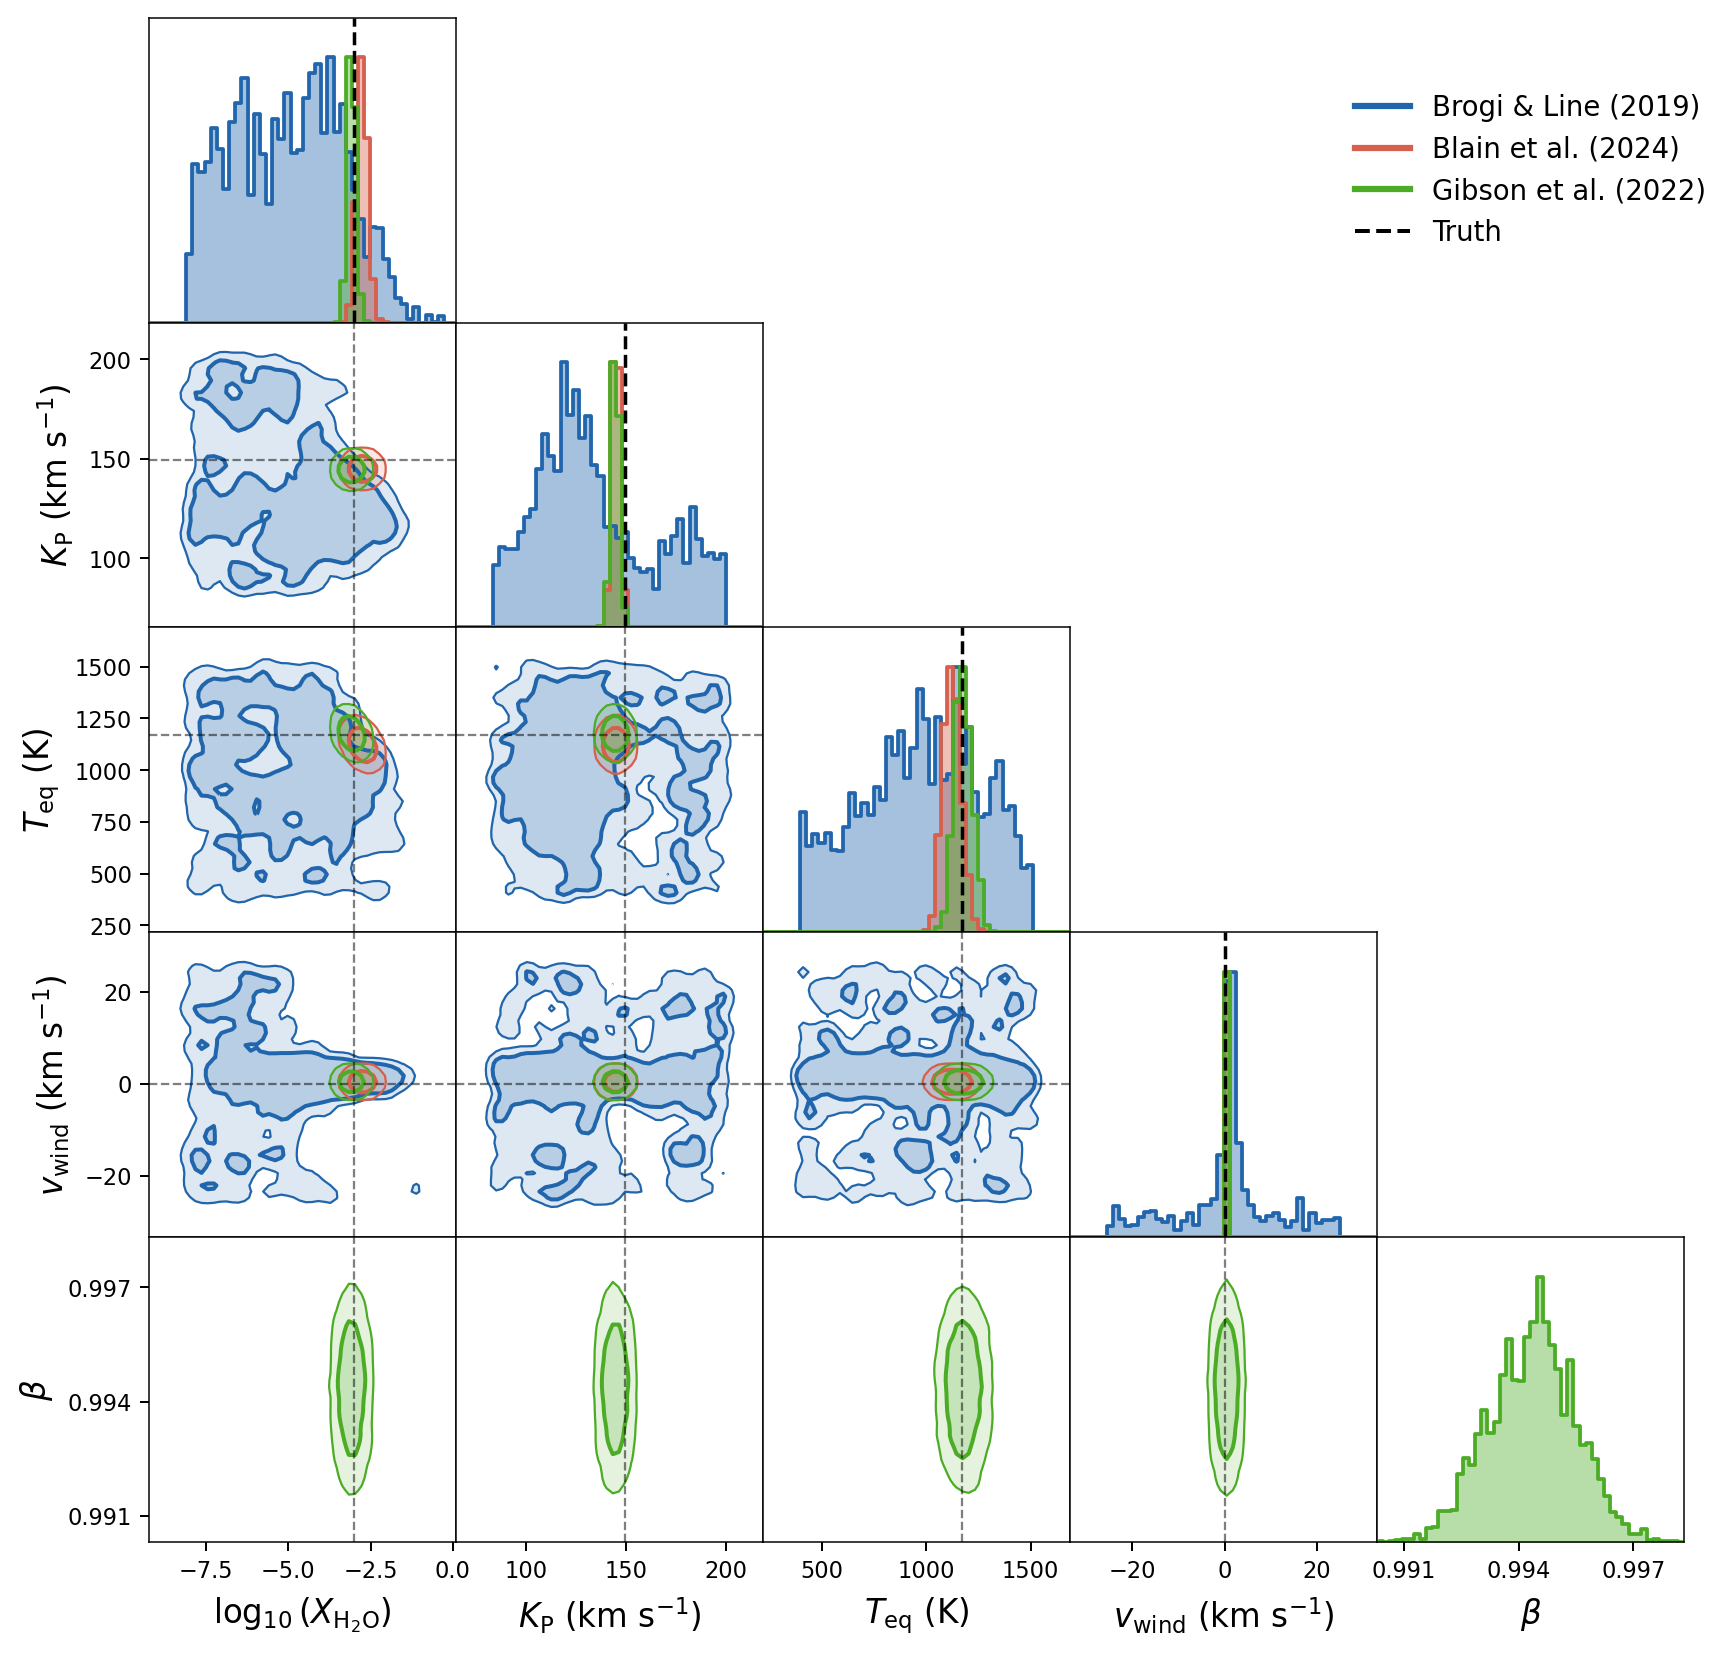
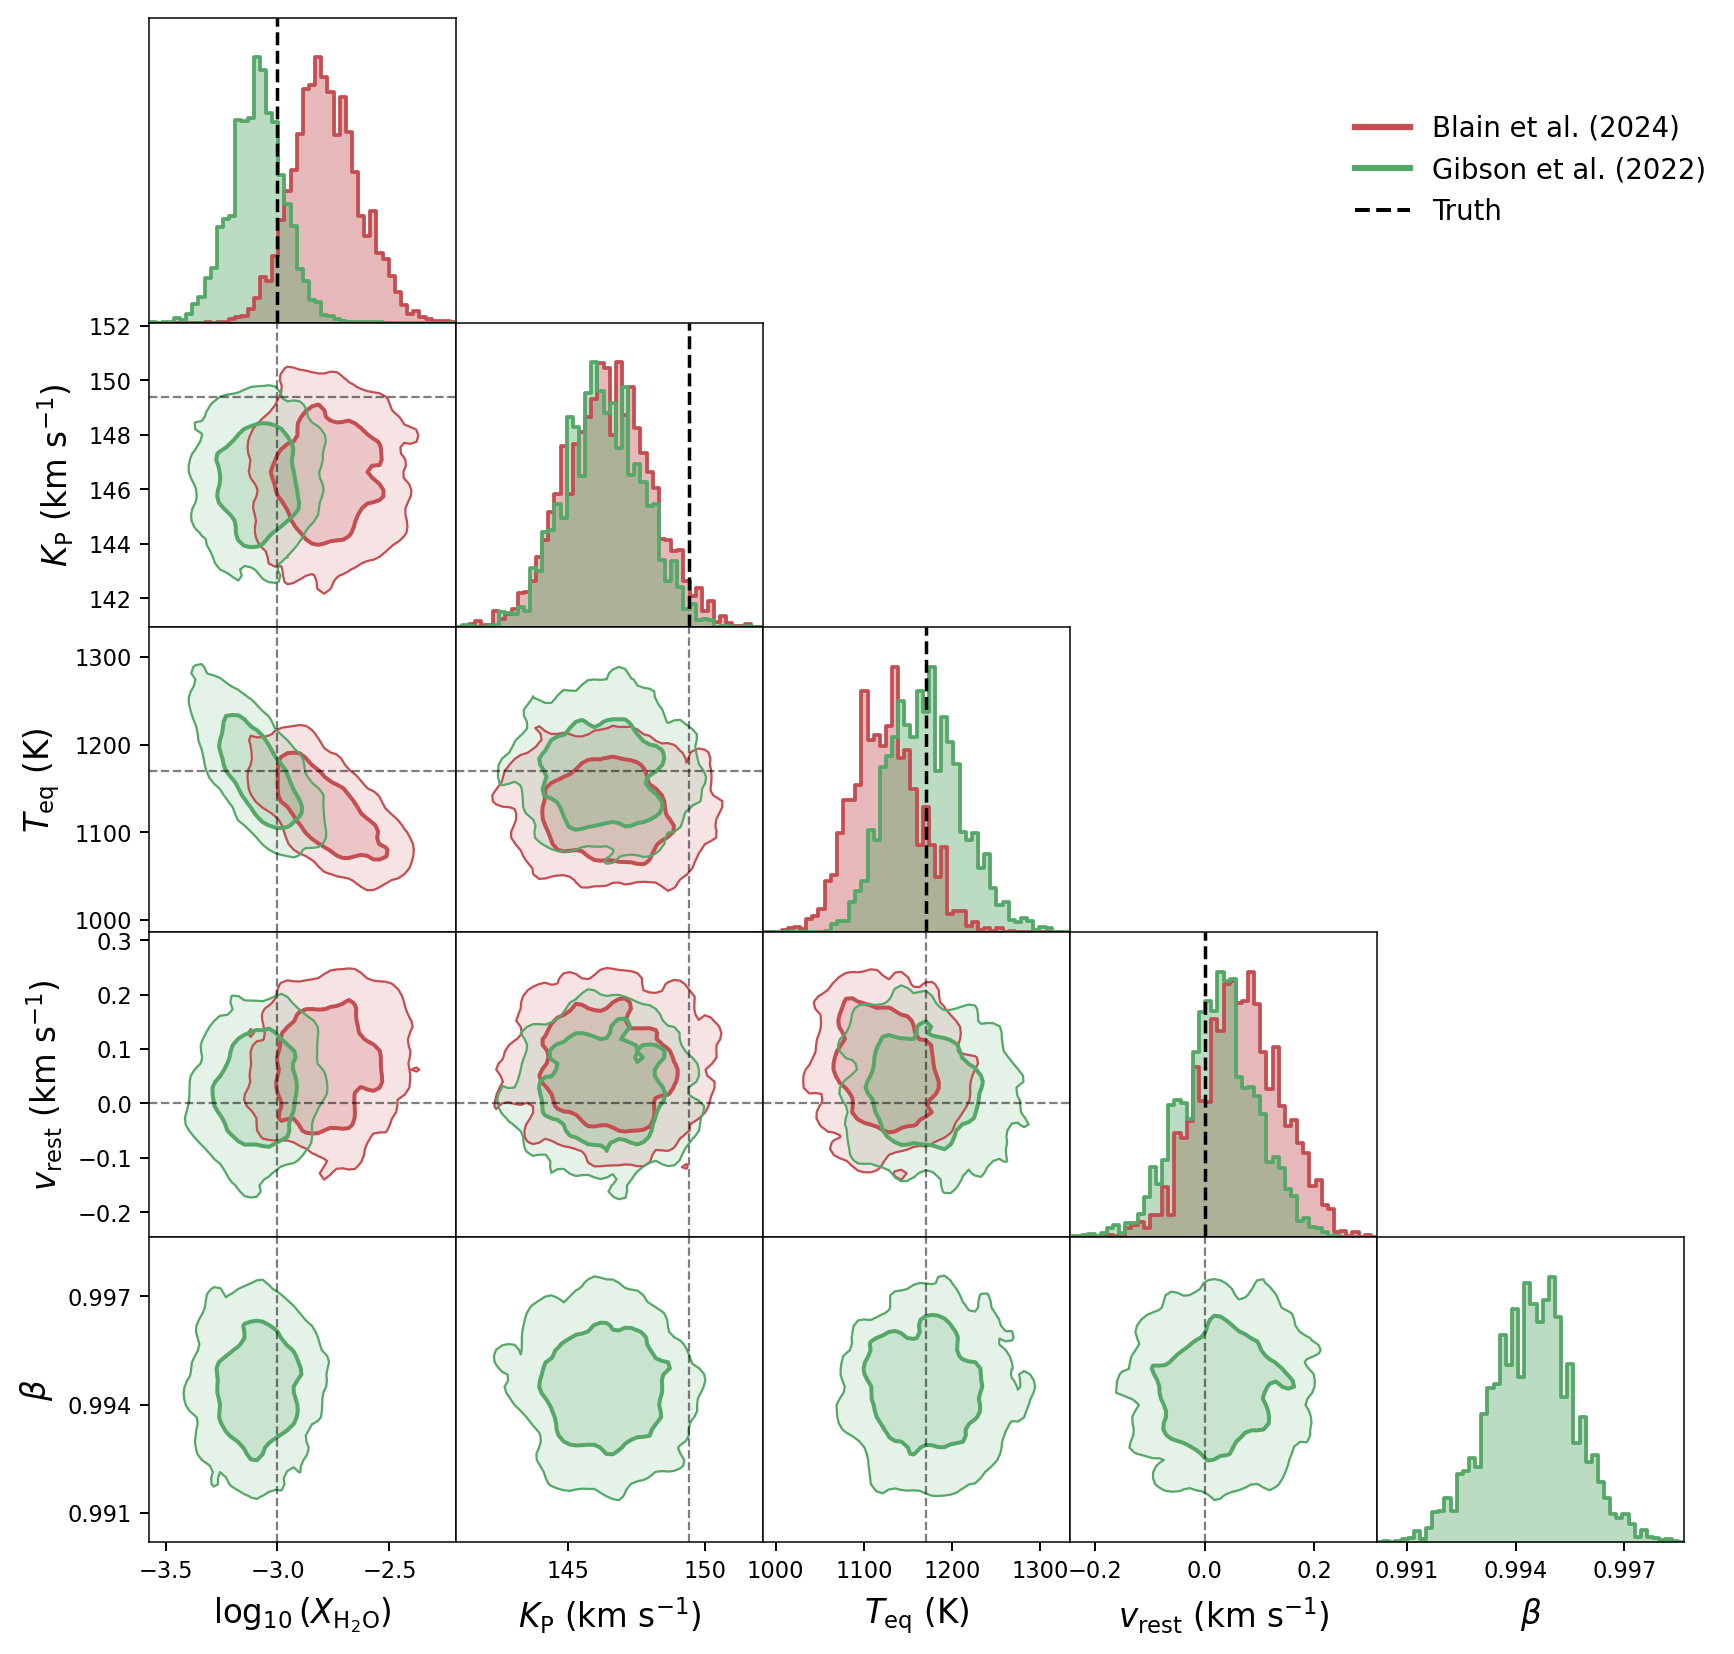
Tutorial 7 noisy bias test with Blain24 and Gibson22; rework likelihood-choice discussion

diff --git a/docs/tutorial.md b/docs/tutorial.md
@@ -848,16 +848,13 @@ Key optional arguments:
 
 ### Noisy retrieval with ANDES YJHK
 
-The noiseless case above demonstrates bias in the absence of noise. To verify that all three pipelines also recover truth under realistic noise, the same test can be run with a single ANDES YJHK order at J-band (order 35, 1310 to 1326 nm), where H₂O provides strong signal even in one order. The ETC SNR in this order is ≈1256 per resolution element per exposure. The ANDES SNR tables are given per resolution element; EXoPLORE converts them to a per-pixel SNR internally via SNR<sub>pixel</sub> = SNR<sub>resel</sub> / √m, where m = `pixels_per_resolution_element` (2.5 for ANDES), so the per-pixel SNR here is ≈800. Even at this single order the signal is strong enough to make the posteriors tight despite the added noise.
+The noiseless case above demonstrates bias in the absence of noise. To verify that Blain24 and Gibson22 also recover truth under realistic noise, the same test can be run with a single ANDES YJHK order at J-band (order 35, 1310 to 1326 nm), where H₂O provides strong signal even in one order. The ETC SNR in this order is ≈1256 per resolution element per exposure. The ANDES SNR tables are given per resolution element; EXoPLORE converts them to a per-pixel SNR internally via SNR<sub>pixel</sub> = SNR<sub>resel</sub> / √m, where m = `pixels_per_resolution_element` (2.5 for ANDES), so the per-pixel SNR here is ≈800. Even at this single order the signal is strong enough to make the posteriors tight despite the added noise.
 
 ```bash
-# BL19, noisy, ANDES YJHK, order 35
-python -u scripts/run_exoplore.py configs/hd189733b_andes_retrieval_bl19_noisy.json --run
-
 # Blain24, noisy, ANDES YJHK, order 35
 python -u scripts/run_exoplore.py configs/hd189733b_andes_retrieval_blain24_noisy.json --run
 
-# Gibson22, noisy, ANDES YJHK, order 35 (β free; β prior [0.9, 1.1] avoids divergence)
+# Gibson22, noisy, ANDES YJHK, order 35 (β free)
 python -u scripts/run_exoplore.py configs/hd189733b_andes_retrieval_gibson22_noisy.json --run
 ```
 
@@ -866,7 +863,7 @@ With realistic noise the Gibson22 β parameter is identifiable and no prior pinn
 :::{figure} figures/tutorial_retrieval_bias_corner_noisy.png
 :width: 90%
 :align: center
-Posterior probability distributions for the retrieved atmospheric parameters of HD 189733 b (ANDES YJHK, order 35, 1310 to 1326 nm, noisy simulation), obtained with Brogi & Line (2019; blue), Blain et al. (2024; red), and Gibson et al. (2022; green) using nested sampling with 200 live points. The posterior widths differ between formulations for this single noisy order: the Brogi & Line (2019) constraints are broader, while those of Blain et al. (2024) and Gibson et al. (2022) are tighter (Kp to ±2 km s<sup>-1</sup>, T<sub>eq</sub> to ±42 K, v<sub>rest</sub> to ±0.1 km s<sup>-1</sup>). All three formulations recover the truth values within 1 to 2σ, with no evidence of systematic pipeline bias; the difference in width reflects the heteroscedastic noise of a single order (see the text below) rather than a general ordering of the methods. The β parameter of Gibson et al. (2022) is identifiable on noisy data (β = 0.994 ± 0.001) and requires no prior pinning.
+Posterior probability distributions for the retrieved atmospheric parameters of HD 189733 b (ANDES YJHK, order 35, 1310 to 1326 nm, noisy simulation), obtained with Blain et al. (2024; red) and Gibson et al. (2022; green) using nested sampling with 200 live points. Both formulations recover the truth values within 1 to 2σ, with no evidence of systematic pipeline bias, and their posteriors are of comparable width since both weight each pixel by its known uncertainty. The recovered K<sub>P</sub> sits ~3 km s<sup>-1</sup> below the injected value for both methods (146.5 and 146.3 km s<sup>-1</sup> against 149.4), consistent between them; this reflects the particular noise realisation of this single order rather than a pipeline bias. The β parameter of Gibson et al. (2022) is free and identifiable on noisy data (β = 0.994 ± 0.001), requiring no prior pinning; its truth line is omitted as it is a noise-model parameter with no injected value. Black dashed lines mark the injected truth values.
 :::
 
 The overlay corner plot is generated with:
@@ -874,26 +871,27 @@ The overlay corner plot is generated with:
 ```bash
 python scripts/plot_corner_overlay.py \\
   --output-root /path/to/EXoPLORE_clean_run/HD189733b/ANDES_YJHK/transit \\
-  --runs  BL19_withsignal_1nights_SNR_comb1_simdata_noisy_stdnoisex1 \\
-          Blain24_withsignal_1nights_SNR_comb1_simdata_noisy_stdnoisex1 \\
-          Gibson22_withsignal_1nights_SNR_comb1_simdata_noisy_stdnoisex1 \\
-  --labels "Brogi & Line (2019)" "Blain et al. (2024)" "Gibson et al. (2022)" \\
+  --runs  Blain24_withsignal_1nights_SNR_comb1_simdata_noisy_stdnoisex1 \\
+          Gibson22_withsignal_N4_1nights_SNR_comb1_simdata_noisy_stdnoisex1 \\
+  --labels "Blain et al. (2024)" "Gibson et al. (2022)" \\
   --truths -3.0 149.4 1170.0 0.0 \\
+  --colors "#c44e52" "#55a868" \\
   --output docs/figures/tutorial_retrieval_bias_corner_noisy.png
 ```
 
-### Why the posterior widths differ between formulations
+### The choice of likelihood and the noise structure
 
-The difference in posterior width reflects how each formulation treats the
-noise, and it informs the choice of likelihood for a given dataset rather than a
-general ranking of the methods. All three assume Gaussian noise and differ in
-how they treat the **noise scale** (the full derivation is in the
-[Concepts primer](concepts.md#5-from-cross-correlation-to-a-likelihood)).
+The log-likelihoods differ in how they treat the **noise scale**, which affects
+the resulting constraints and informs the choice of likelihood for a given
+dataset rather than a general ranking of the methods (the full derivation is in
+the [Concepts primer](concepts.md#5-from-cross-correlation-to-a-likelihood)):
 
 - Brogi & Line (2019) estimates a **single** global noise level per spectrum
   from the residuals themselves. No per-pixel uncertainty enters its formula.
 - Blain et al. (2024) and Gibson et al. (2022) use the **known** per-pixel
-  uncertainty, so each pixel is weighted by `1/σ²`.
+  uncertainty, so each pixel is weighted by `1/σ²`. Because both weight the data
+  the same way, their posteriors in the noisy figure above are of comparable
+  width.
 
 The practical consequence depends on whether the noise is uniform across
 pixels. The script `scripts/illustrate_likelihood_weighting.py` examines this on
@@ -919,23 +917,19 @@ assigns those noisy pixels little weight.
 ```
 
 Real spectra are frequently heteroscedastic (telluric cores, blaze edges, and
-channels near deep lines carry elevated noise), which may explain why the Blain
-et al. (2024) and Gibson et al. (2022) formulations produce tighter posteriors
-than Brogi & Line (2019) for this single noisy ANDES order. On noiseless data
-the effect vanishes, since there is no noise structure to exploit, which is why
-the three converge in the noiseless corner plot earlier in this tutorial. As
-noted in the Concepts primer, the Brogi & Line (2019) formulation was developed
-and validated on simulated, photon-noise-dominated CRIRES data, where it was
-shown to recover statistically correct credibility intervals; its broader
-posteriors for this single noisy ANDES order reflect the heteroscedastic noise
-of that particular test rather than a general limitation of the method.
+channels near deep lines carry elevated noise), which is one reason per-pixel
+weighting is often preferred for real data. As noted in the Concepts primer, the
+Brogi & Line (2019) formulation was developed and validated on simulated,
+photon-noise-dominated CRIRES data, where it was shown to recover statistically
+correct credibility intervals; whether a given estimator is appropriate
+therefore depends on the noise structure of the dataset at hand.
 
 ### Supported pipeline / likelihood combinations for bias testing
 
 | Preparing pipeline | Log-likelihood | Works noiseless? | Notes |
 |---|---|---|---|
-| BL19 | BL19 | Yes | Matched filter, noise-independent |
-| BL19 | Blain24 | Yes | Chi-squared with propagated noise |
+| BL19 | BL19 | **Not reliable** | Scale-free likelihood collapses to a near-delta on noiseless data, magnifying any residual model-data mismatch into a spurious offset; omitted from the noiseless test for now |
+| BL19 | Blain24 | Yes | BL19 preparation with the chi-squared Blain24 likelihood (propagated noise) |
 | Blain24 | Blain24 | Yes | Polynomial throughput + telluric removal |
 | Gibson22 | Gibson22 (β pinned) | **Yes** | Set `prior_bounds` to pin β ∈ [0.999, 1.001]; see below |
 | ASL19 | any | **TBD** | SYSREM may over-subtract noiseless data; not yet evaluated |
